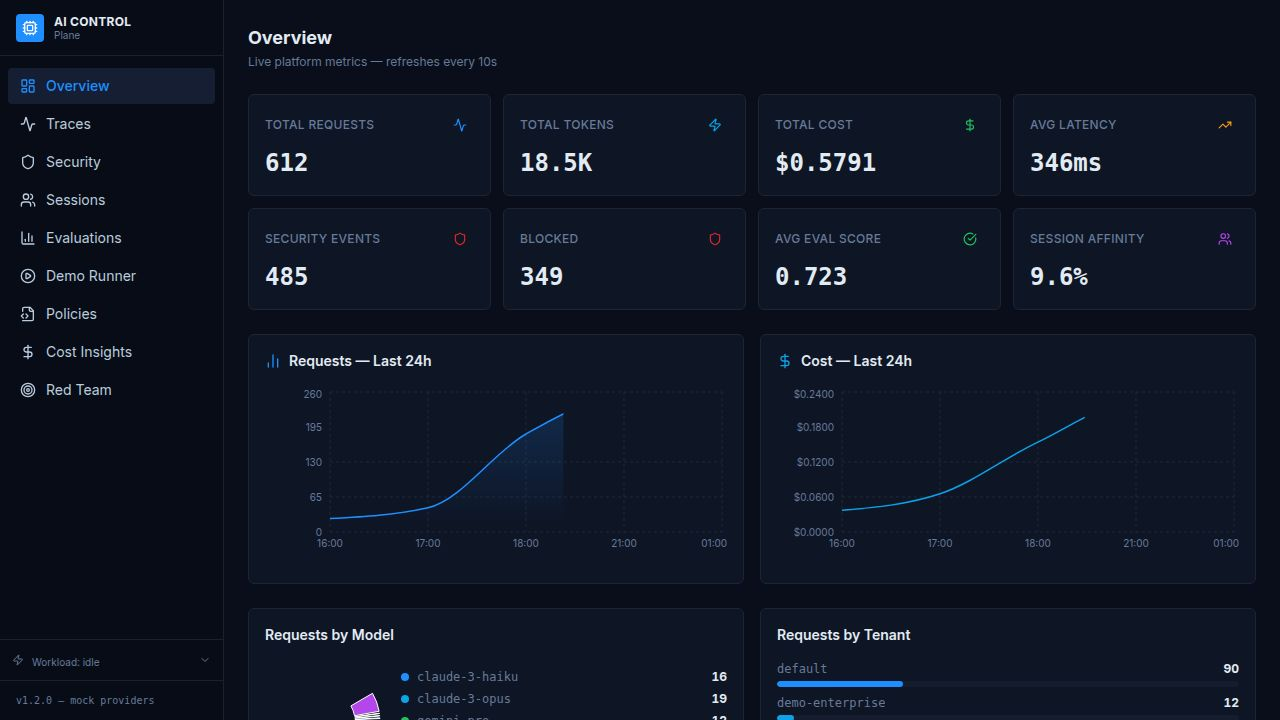
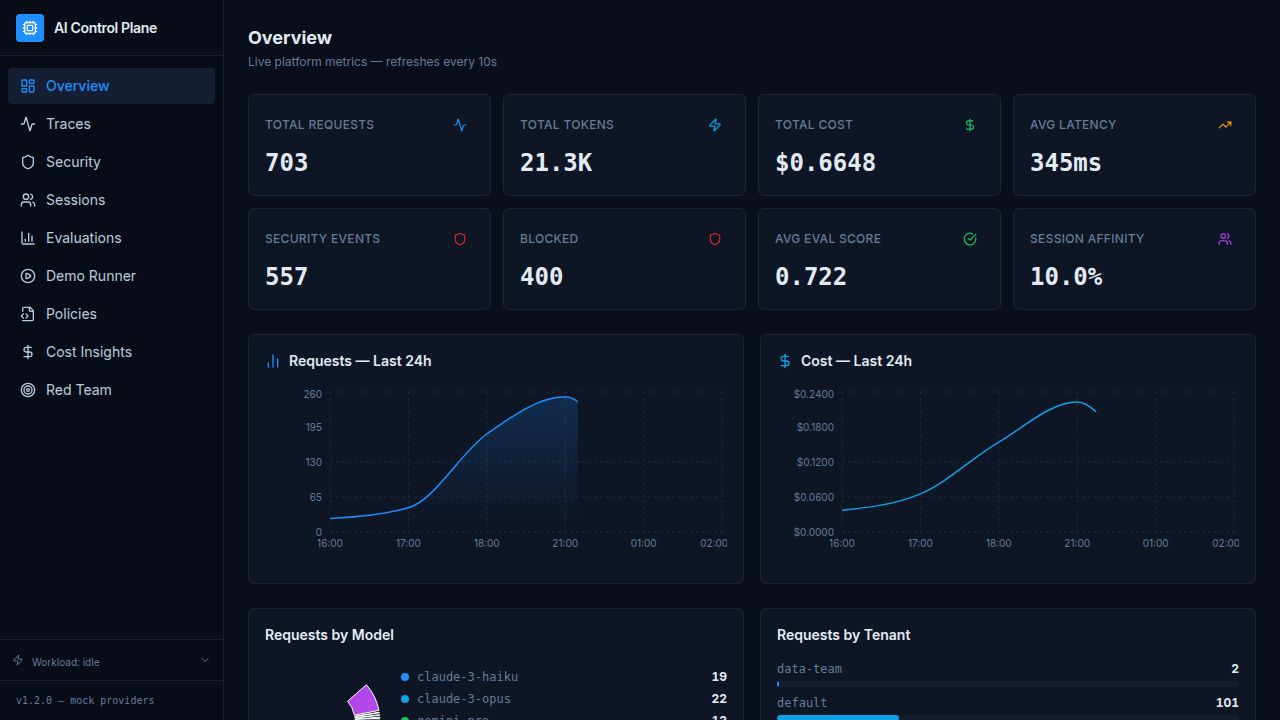
Update dashboard to display "AI Control Plane" prominently
Modify Layout.tsx to replace the split "AI Control" and "Plane" text with a unified "AI Control Plane" wordmark in the dashboard header.

Replit-Commit-Author: Agent
Replit-Commit-Session-Id: 12aa5d18-1175-4359-aa81-ee71ac9b40e2
Replit-Commit-Checkpoint-Type: full_checkpoint
Replit-Commit-Event-Id: a84305fa-a2f8-4710-bae3-a52c9284674c
Replit-Commit-Screenshot-Url: https://storage.googleapis.com/screenshot-production-us-central1/369f3e64-f88b-427a-af03-01de3923cca2/12aa5d18-1175-4359-aa81-ee71ac9b40e2/S1uBKda
Replit-Helium-Checkpoint-Created: true

diff --git a/artifacts/dashboard/src/components/Layout.tsx b/artifacts/dashboard/src/components/Layout.tsx
@@ -38,10 +38,9 @@ export function Layout({ children }: { children: React.ReactNode }) {
           <div className="w-7 h-7 rounded-md bg-primary flex items-center justify-center shrink-0">
             <Cpu className="w-4 h-4 text-white" />
           </div>
-          <div>
-            <div className="text-xs font-bold text-foreground leading-tight tracking-wide uppercase">AI Control</div>
-            <div className="text-[10px] text-muted-foreground leading-tight">Plane</div>
-          </div>
+          <span className="text-sm font-semibold text-foreground tracking-tight leading-none">
+            AI Control Plane
+          </span>
         </div>
 
         {/* Nav */}
